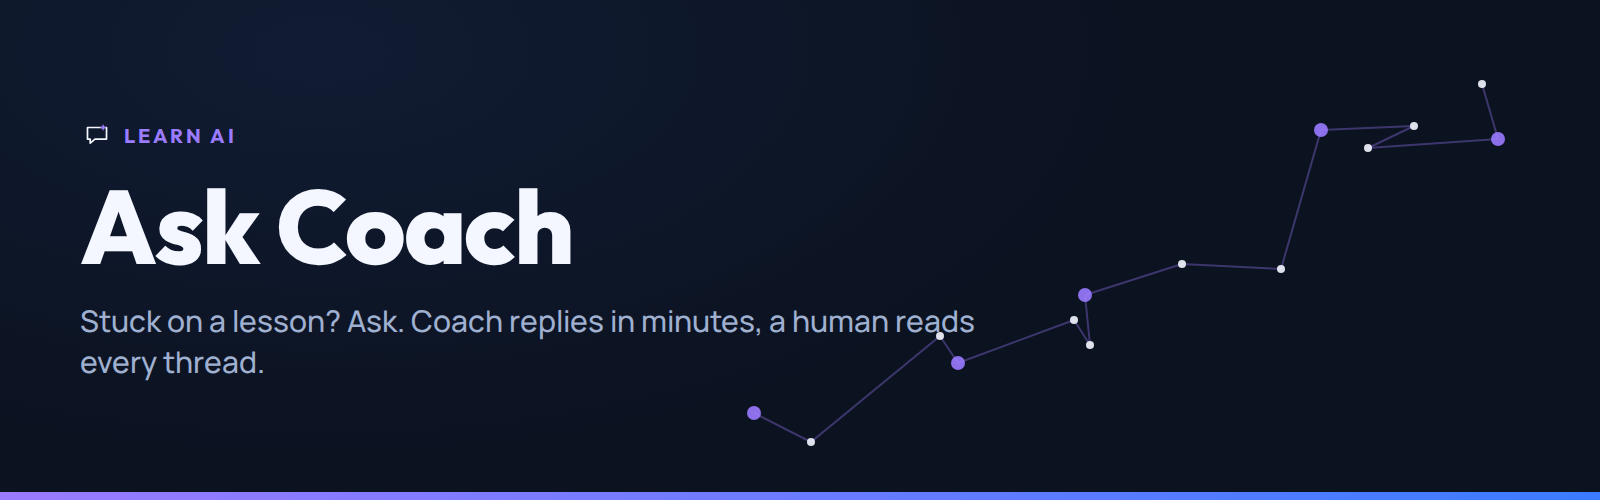
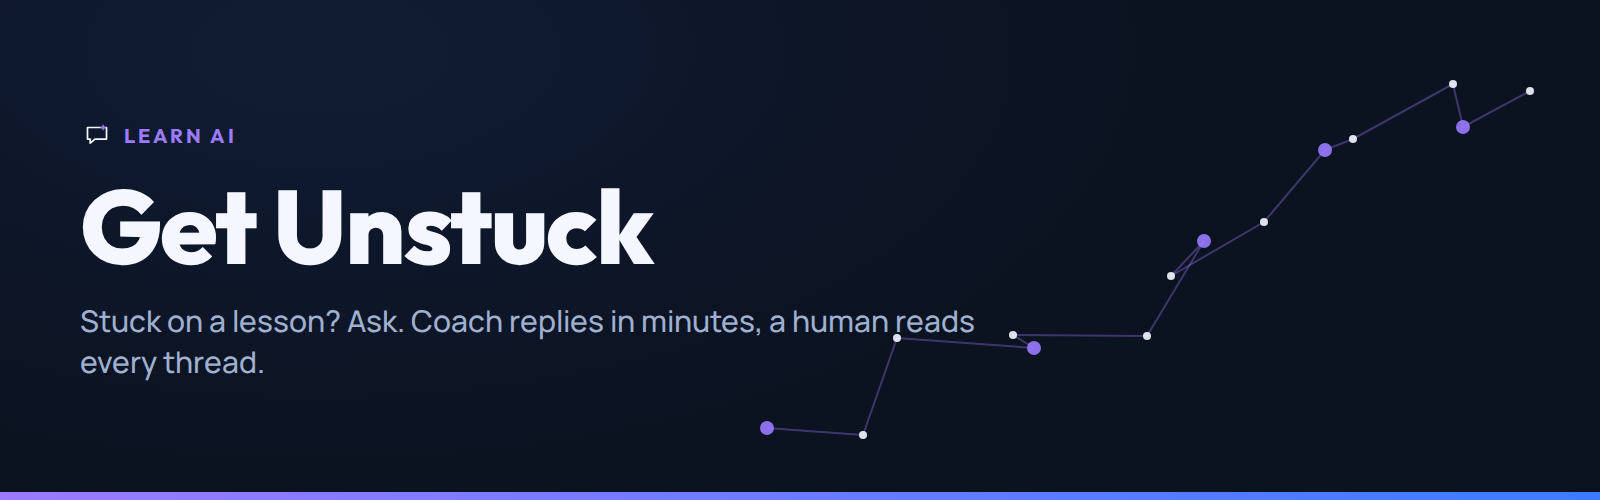
Rename Ask Coach to Get Unstuck; smaller countdown boxes
The help space is now called Get Unstuck everywhere a parent or kid
reads it: the site pages, the Circle structure (the slug stays
ask-coach so the poller and COACH_SPACE_SLUG are unchanged), the pinned
post text, Coach's knowledge base, the space cover and welcome banner,
the docs and the test fixtures. The bot's persona stays Coach. Circle's
API cannot rename a space, so the live rename is a click job (Brief 12).

The countdown boxes on /classes are a size smaller.

Claude-Session: https://claude.ai/code/session_0175zQefr8gbNhXGeym41jJw

diff --git a/site/classes.html b/site/classes.html
@@ -55,11 +55,11 @@
   .bts .clock { position:absolute; left:14px; top:14px; width:20px; height:20px; opacity:.9; }
   .bts .l1 { font-size:14.5px; font-weight:700; letter-spacing:-0.01em; }
   .bts .l1 b { font-weight:800; }
-  .cd { margin-top:10px; display:flex; align-items:flex-start; justify-content:center; gap:6px; }
-  .cd .u { display:flex; flex-direction:column; align-items:center; gap:4px; width:52px; }
-  .cd .n { width:52px; height:46px; border-radius:8px; background:rgba(255,255,255,.2); display:grid; place-items:center; font-size:21px; font-weight:800; line-height:1; font-variant-numeric:tabular-nums; }
-  .cd small { font-size:9.5px; letter-spacing:.06em; text-transform:uppercase; opacity:.92; font-weight:600; white-space:nowrap; }
-  .cd .c { font-size:20px; font-weight:800; opacity:.75; line-height:46px; }
+  .cd { margin-top:9px; display:flex; align-items:flex-start; justify-content:center; gap:5px; }
+  .cd .u { display:flex; flex-direction:column; align-items:center; gap:3px; width:44px; }
+  .cd .n { width:44px; height:38px; border-radius:7px; background:rgba(255,255,255,.2); display:grid; place-items:center; font-size:17px; font-weight:800; line-height:1; font-variant-numeric:tabular-nums; }
+  .cd small { font-size:8.5px; letter-spacing:.05em; text-transform:uppercase; opacity:.92; font-weight:600; white-space:nowrap; }
+  .cd .c { font-size:16px; font-weight:800; opacity:.75; line-height:38px; }
   .bts button { position:absolute; right:8px; top:8px; width:32px; height:32px; border:0; background:transparent; color:#fff; font-size:24px; line-height:1; cursor:pointer; border-radius:50%; opacity:.85; }
   .top { display:flex; align-items:center; justify-content:space-between; padding:12px 16px; border-bottom:1px solid var(--line); background:#fff; }
   .logo { display:inline-flex; align-items:center; gap:9px; font-weight:800; font-size:21px; color:var(--ink); letter-spacing:-0.01em; }
@@ -361,7 +361,7 @@
 
     <ul class="facts">
       <li><svg viewBox="0 0 24 24" fill="none" stroke="#17182B" stroke-width="2" stroke-linecap="round" stroke-linejoin="round" aria-hidden="true"><path d="M4 19V5a2 2 0 0 1 2-2h12a2 2 0 0 1 2 2v14M4 19a2 2 0 0 0 2 2h14M8 7h8M8 11h8"/></svg><span>17 video classes in three tracks: AI basics, how it works, and projects</span></li>
-      <li><svg viewBox="0 0 24 24" fill="none" stroke="#17182B" stroke-width="2" stroke-linecap="round" stroke-linejoin="round" aria-hidden="true"><path d="M21 12a8 8 0 0 1-8 8H8l-5 3 1.5-4.5A8 8 0 1 1 21 12z"/></svg><span>Ask Coach: help in minutes, and a real person reads every thread</span></li>
+      <li><svg viewBox="0 0 24 24" fill="none" stroke="#17182B" stroke-width="2" stroke-linecap="round" stroke-linejoin="round" aria-hidden="true"><path d="M21 12a8 8 0 0 1-8 8H8l-5 3 1.5-4.5A8 8 0 1 1 21 12z"/></svg><span>Get Unstuck: ask anything, get an answer in minutes, and a real person reads every thread</span></li>
       <li><svg viewBox="0 0 24 24" fill="none" stroke="#17182B" stroke-width="2" stroke-linecap="round" stroke-linejoin="round" aria-hidden="true"><path d="M20 7 9 18l-5-5"/></svg><span>A finished project at the end of every project class</span></li>
     </ul>
 
@@ -524,7 +524,7 @@
     <section>
       <div class="factgrid">
         <div><small>Start</small><b>Tonight</b></div>
-        <div><small>Format</small><b>Self-paced video <span>plus Ask Coach</span></b></div>
+        <div><small>Format</small><b>Self-paced video <span>plus help in minutes</span></b></div>
         <div><small>Ages</small><b>11 to 17</b></div>
         <div><small>New classes</small><b>Every week</b></div>
         <div><small>Price</small><b><s>$199</s> $49 a month <span>stays $49 for as long as you're a member</span></b></div>
@@ -579,7 +579,7 @@
     <section class="center" id="faq">
       <h2>Common questions</h2>
       <div class="faq" style="text-align:left">
-        <details open><summary>Is this live, or self-paced?<svg viewBox="0 0 24 24" fill="none" stroke="currentColor" stroke-width="2.5" stroke-linecap="round" stroke-linejoin="round" aria-hidden="true"><path d="m6 9 6 6 6-6"/></svg></summary><div class="a">Self-paced. Every class is on demand, so your kid can start tonight and watch when it suits your family. Help comes from Ask Coach, which answers in minutes, and a real person reads every thread.</div></details>
+        <details open><summary>Is this live, or self-paced?<svg viewBox="0 0 24 24" fill="none" stroke="currentColor" stroke-width="2.5" stroke-linecap="round" stroke-linejoin="round" aria-hidden="true"><path d="m6 9 6 6 6-6"/></svg></summary><div class="a">Self-paced. Every class is on demand, so your kid can start tonight and watch when it suits your family. Help comes from Get Unstuck, where Coach answers in minutes and a real person reads every thread.</div></details>
         <details><summary>What ages is this for?<svg viewBox="0 0 24 24" fill="none" stroke="currentColor" stroke-width="2.5" stroke-linecap="round" stroke-linejoin="round" aria-hidden="true"><path d="m6 9 6 6 6-6"/></svg></summary><div class="a">Built for 11 to 17. Middle schoolers do best with a parent watching the first classes alongside; high schoolers usually run with it on their own.</div></details>
         <details><summary>Does my kid need to know how to code?<svg viewBox="0 0 24 24" fill="none" stroke="currentColor" stroke-width="2.5" stroke-linecap="round" stroke-linejoin="round" aria-hidden="true"><path d="m6 9 6 6 6-6"/></svg></summary><div class="a">No. Every project uses tools that build from a description of what you want. Kids who like code can go deeper, but nothing requires it.</div></details>
         <details><summary>What do they need?<svg viewBox="0 0 24 24" fill="none" stroke="currentColor" stroke-width="2.5" stroke-linecap="round" stroke-linejoin="round" aria-hidden="true"><path d="m6 9 6 6 6-6"/></svg></summary><div class="a">A laptop or Chromebook and an internet connection. Most tools have a free tier. Where a class uses a paid tool, the class says so before anyone signs up for anything.</div></details>
@@ -594,7 +594,7 @@
       <div class="offer">
         <h3>Back in School Access</h3>
         <div class="pr"><s class="was">$199</s><b>$49</b><span>/ month</span></div>
-        <p class="sub">Every class, every project, Ask Coach. About $1.60 a day.</p>
+        <p class="sub">Every class, every project, help in minutes. About $1.60 a day.</p>
         <a class="btn sun" data-checkout href="https://www.joinlearnai.com/checkout/founding-member">Enroll Now</a>
         <p class="fine">Enroll now and your rate stays $49 a month for as long as you're a member. It never goes back up to $199. Cancel anytime from your account.</p>
       </div>

diff --git a/site/index.html b/site/index.html
@@ -202,7 +202,7 @@
     <div class="steps" style="margin-top:32px">
       <div class="step"><h3>Watch a class</h3><p>Twenty to thirty minutes. Pause, rewind, rewatch.</p></div>
       <div class="step"><h3>Build the project</h3><p>Every class ends with something to make, using free tools.</p></div>
-      <div class="step"><h3>Ask when stuck</h3><p>Post in Ask Coach. Answers come in minutes, any day.</p></div>
+      <div class="step"><h3>Ask when stuck</h3><p>Post in Get Unstuck. Answers come in minutes, any day.</p></div>
       <div class="step"><h3>Show it off</h3><p>Share it in Show and Tell and see what other kids made.</p></div>
       <div class="step"><h3>Join the live build</h3><p>A weekly live build-along and Q&amp;A with the team.</p></div>
     </div>
@@ -243,13 +243,13 @@
       <div>
         <span class="founding">Founding Member</span>
         <div class="amount" style="margin-top:14px">$49 <small>/ month</small></div>
-        <p class="lede" style="margin-top:10px;font-size:16px">One student. Every class, every project, Ask Coach, live sessions and the community. Founding rate locked in for as long as you stay a member. Cancel anytime.</p>
+        <p class="lede" style="margin-top:10px;font-size:16px">One student. Every class, every project, Get Unstuck help, live sessions and the community. Founding rate locked in for as long as you stay a member. Cancel anytime.</p>
         <p style="margin-top:22px"><a class="btn" data-checkout href="https://www.joinlearnai.com/checkout/founding-member">Join now</a></p>
       </div>
       <ul>
         <li><svg width="20" height="20" viewBox="0 0 24 24" fill="none" stroke="#3B7BFF" stroke-width="2.5" stroke-linecap="round" stroke-linejoin="round"><path d="M20 6L9 17l-5-5"/></svg><span>17 video classes across three levels</span></li>
         <li><svg width="20" height="20" viewBox="0 0 24 24" fill="none" stroke="#3B7BFF" stroke-width="2.5" stroke-linecap="round" stroke-linejoin="round"><path d="M20 6L9 17l-5-5"/></svg><span>10 project classes: game, app, website, chatbot, agent, video, cartoon, music, art, comic</span></li>
-        <li><svg width="20" height="20" viewBox="0 0 24 24" fill="none" stroke="#3B7BFF" stroke-width="2.5" stroke-linecap="round" stroke-linejoin="round"><path d="M20 6L9 17l-5-5"/></svg><span>Ask Coach: answers in minutes, a human reads every thread</span></li>
+        <li><svg width="20" height="20" viewBox="0 0 24 24" fill="none" stroke="#3B7BFF" stroke-width="2.5" stroke-linecap="round" stroke-linejoin="round"><path d="M20 6L9 17l-5-5"/></svg><span>Get Unstuck: answers in minutes, a human reads every thread</span></li>
         <li><svg width="20" height="20" viewBox="0 0 24 24" fill="none" stroke="#3B7BFF" stroke-width="2.5" stroke-linecap="round" stroke-linejoin="round"><path d="M20 6L9 17l-5-5"/></svg><span>Weekly live build-along and Q&amp;A</span></li>
         <li><svg width="20" height="20" viewBox="0 0 24 24" fill="none" stroke="#3B7BFF" stroke-width="2.5" stroke-linecap="round" stroke-linejoin="round"><path d="M20 6L9 17l-5-5"/></svg><span>Show and Tell, Course Requests, Parent Hub</span></li>
         <li><svg width="20" height="20" viewBox="0 0 24 24" fill="none" stroke="#3B7BFF" stroke-width="2.5" stroke-linecap="round" stroke-linejoin="round"><path d="M20 6L9 17l-5-5"/></svg><span>New classes added by member vote</span></li>
@@ -266,7 +266,7 @@
     <details><summary>What ages is this for?</summary><p>Built for 11 to 17. Younger kids can do it with a parent alongside. Adults get their own courses in the same membership.</p></details>
     <details><summary>Does my kid need to know how to code?</summary><p>No. Every project uses tools that let you build by describing what you want. Kids who like code can go deeper, but nothing requires it.</p></details>
     <details><summary>What do they need?</summary><p>A laptop or Chromebook and an internet connection. Most tools have a free tier. One art class uses Midjourney, which is paid, and the video class may need a paid ChatGPT plan. We say so in the class before anyone signs up for anything.</p></details>
-    <details><summary>Is it live or self-paced?</summary><p>Self-paced classes, plus a weekly live build-along and Q&amp;A. Questions get answered any day in Ask Coach.</p></details>
+    <details><summary>Is it live or self-paced?</summary><p>Self-paced classes, plus a weekly live build-along and Q&amp;A. Questions get answered any day in Get Unstuck.</p></details>
     <details><summary>How much time does it take?</summary><p>About two hours a week is a good pace: one class and its project. Faster or slower is fine.</p></details>
     <details><summary>Who is Coach?</summary><p>Coach is an AI helper that answers questions inside the community, grounded in the class material. It never asks for personal details and it hands anything about billing, accounts or safety to a person on our team. A human reviews every thread.</p></details>
     <details><summary>How do I cancel?</summary><p>From your account settings, in two clicks, any time. You keep access until the end of the billing period. Billing questions go to a person; email us and we will sort it out.</p></details>

diff --git a/site/the-gap.html b/site/the-gap.html
@@ -396,7 +396,7 @@
         <div class="step"><span class="n">1</span><div><span class="when">Tonight</span><h3>Watch the first class together</h3><p>Eight minutes on how ChatGPT actually works. Then where it gets things wrong, and how to use it well. You'll both get it.</p></div></div>
         <div class="step"><span class="n">2</span><div><span class="when">This week</span><h3>Pick a project and build it</h3><p>A custom game, their own cartoon, a video, an AI agent that handles real tasks. Every project class ends with something finished.</p></div></div>
         <div class="step"><span class="n">3</span><div><span class="when">Every week</span><h3>A new class drops</h3><p>Members ask for the class they want next and vote on it, so the program follows what your kid wants to make.</p></div></div>
-        <div class="step"><span class="n">4</span><div><span class="when">Whenever they're stuck</span><h3>Ask Coach</h3><p>An answer in minutes, and a real person on our team reads every thread.</p></div></div>
+        <div class="step"><span class="n">4</span><div><span class="when">Whenever they're stuck</span><h3>Get Unstuck</h3><p>An answer in minutes, and a real person on our team reads every thread.</p></div></div>
     </div>
   </div>
 </section>
@@ -461,7 +461,7 @@
       <div class="row"><div class="lab"><b>Live small-group coding school</b><span>$219 to $299 a month</span></div><div class="bar"><i style="width:22%"></i></div></div>
       <div class="row"><div class="lab"><b>One online class a week, pay per class</b><span>$60 to $120 a month</span></div><div class="bar"><i style="width:9%"></i></div></div>
       <div class="row us"><div class="lab"><b>Learn AI, everything included</b><span>$49 a month</span></div><div class="bar"><i style="width:4.5%"></i></div></div>
-      <span class="src">Prices as listed on the providers' own sites, October 2026. Learn AI includes every class, new classes weekly and Ask Coach.</span>
+      <span class="src">Prices as listed on the providers' own sites, October 2026. Learn AI includes every class, new classes weekly and Get Unstuck help.</span>
     </div>
   </div>
 </section>
@@ -507,7 +507,7 @@
         <li><span class="ck indigo"><svg viewBox="0 0 24 24" fill="none" stroke="#fff" stroke-width="3.5" stroke-linecap="round" stroke-linejoin="round"><path d="M20 6L9 17l-5-5"/></svg></span><span><b>How AI works, from the ground up.</b> College-level material, taught so a 12-year-old gets it.</span><span class="v">$297</span></li>
         <li><span class="ck indigo"><svg viewBox="0 0 24 24" fill="none" stroke="#fff" stroke-width="3.5" stroke-linecap="round" stroke-linejoin="round"><path d="M20 6L9 17l-5-5"/></svg></span><span><b>Project classes.</b> Make a game, a cartoon, a video, an AI agent, an app, a website and more.</span><span class="v">$497</span></li>
         <li><span class="ck indigo"><svg viewBox="0 0 24 24" fill="none" stroke="#fff" stroke-width="3.5" stroke-linecap="round" stroke-linejoin="round"><path d="M20 6L9 17l-5-5"/></svg></span><span><b>New classes every week.</b> Members ask for the next one and vote on it.</span><span class="v">$199</span></li>
-        <li><span class="ck indigo"><svg viewBox="0 0 24 24" fill="none" stroke="#fff" stroke-width="3.5" stroke-linecap="round" stroke-linejoin="round"><path d="M20 6L9 17l-5-5"/></svg></span><span><b>Ask Coach.</b> Help in minutes, any day, with a person reading every thread.</span><span class="v">$240</span></li>
+        <li><span class="ck indigo"><svg viewBox="0 0 24 24" fill="none" stroke="#fff" stroke-width="3.5" stroke-linecap="round" stroke-linejoin="round"><path d="M20 6L9 17l-5-5"/></svg></span><span><b>Get Unstuck.</b> Help in minutes, any day, with a person reading every thread.</span><span class="v">$240</span></li>
         <li><span class="ck indigo"><svg viewBox="0 0 24 24" fill="none" stroke="#fff" stroke-width="3.5" stroke-linecap="round" stroke-linejoin="round"><path d="M20 6L9 17l-5-5"/></svg></span><span><b>A safe, moderated space.</b> No messaging between members. Parent consent at signup.</span><span class="v">$99</span></li>
         <li class="total"><span>Total value</span><span><s>$1,332</s> &nbsp;→&nbsp; $49/month</span></li>
       </ul>

diff --git a/site/ai-for-kids.html b/site/ai-for-kids.html
@@ -159,7 +159,7 @@
   .teacher .cred { color:var(--ink); font-size:13.5px; font-weight:600; margin-top:2px; }
   .teacher .cls { color:var(--muted); font-size:13px; margin-top:6px; }
 
-  /* Ask Coach thread */
+  /* Get Unstuck thread */
   .coach { margin-top:20px; background:var(--surface); border:1px solid var(--line); border-radius:18px; overflow:hidden; }
   .coach .head { display:flex; align-items:center; gap:10px; padding:14px 16px; border-bottom:1px solid var(--line); }
   .coach .head .ic { width:34px; height:34px; border-radius:10px; background:var(--indigo); display:grid; place-items:center; flex:none; }
@@ -417,7 +417,7 @@
     <div class="coach">
       <div class="head">
         <span class="ic"><svg width="18" height="18" viewBox="0 0 24 24" fill="none" stroke="#fff" stroke-width="2.4" stroke-linecap="round" stroke-linejoin="round"><path d="M4 5h16v11H9l-5 4z"/></svg></span>
-        <div><b>Between classes: Ask Coach</b><span>Stuck at 9pm? Post the question. An answer comes in minutes.</span></div>
+        <div><b>Between classes: Get Unstuck</b><span>Stuck at 9pm? Post the question. An answer comes in minutes.</span></div>
       </div>
       <div class="thread" aria-label="Example question and answer">
         <div class="msg"><span class="av">S</span><div class="b"><div class="n"><b>Student, 13</b><span class="t">8:52 PM</span></div>My game character falls through the platforms when I jump. What do I change?</div></div>
@@ -457,7 +457,7 @@
         <li><span class="ck indigo"><svg viewBox="0 0 24 24" fill="none" stroke="#fff" stroke-width="3.5" stroke-linecap="round" stroke-linejoin="round"><path d="M20 6L9 17l-5-5"/></svg></span><span><b>Beginner-friendly AI classes.</b> College-level material, taught so a 12-year-old gets it.</span><span class="v">$297</span></li>
         <li><span class="ck indigo"><svg viewBox="0 0 24 24" fill="none" stroke="#fff" stroke-width="3.5" stroke-linecap="round" stroke-linejoin="round"><path d="M20 6L9 17l-5-5"/></svg></span><span><b>Project classes.</b> Make a game, an app, a website, a chatbot and more.</span><span class="v">$497</span></li>
         <li><span class="ck indigo"><svg viewBox="0 0 24 24" fill="none" stroke="#fff" stroke-width="3.5" stroke-linecap="round" stroke-linejoin="round"><path d="M20 6L9 17l-5-5"/></svg></span><span><b>New classes every week.</b> Chosen by member vote, from real instructors.</span><span class="v">$199</span></li>
-        <li><span class="ck indigo"><svg viewBox="0 0 24 24" fill="none" stroke="#fff" stroke-width="3.5" stroke-linecap="round" stroke-linejoin="round"><path d="M20 6L9 17l-5-5"/></svg></span><span><b>Ask Coach.</b> Help in minutes, any day, with a person reading every thread.</span><span class="v">$240</span></li>
+        <li><span class="ck indigo"><svg viewBox="0 0 24 24" fill="none" stroke="#fff" stroke-width="3.5" stroke-linecap="round" stroke-linejoin="round"><path d="M20 6L9 17l-5-5"/></svg></span><span><b>Get Unstuck.</b> Ask anything, get help in minutes, any day, with a person reading every thread.</span><span class="v">$240</span></li>
         <li><span class="ck indigo"><svg viewBox="0 0 24 24" fill="none" stroke="#fff" stroke-width="3.5" stroke-linecap="round" stroke-linejoin="round"><path d="M20 6L9 17l-5-5"/></svg></span><span><b>A safe, moderated space.</b> No messaging between members. Parent consent at signup.</span><span class="v">$99</span></li>
         <li class="total"><span>Total value</span><span><s>$1,332</s> &nbsp;→&nbsp; $49/month</span></li>
       </ul>

diff --git a/test/coachLoop.test.ts b/test/coachLoop.test.ts
@@ -24,7 +24,7 @@ function cfg(overrides: Partial<CoachLoopConfig> = {}): CoachLoopConfig {
 }
 
 const member = (id: number, name: string, email: string, title: string, html: string, published: string, comments = 0): PostRecord => ({
-  id, name: title, body: { body: html }, user_email: email, user_name: name, space_name: "Ask Coach", published_at: published, comments_count: comments,
+  id, name: title, body: { body: html }, user_email: email, user_name: name, space_name: "Get Unstuck", published_at: published, comments_count: comments,
 });
 const comment = (id: number, email: string, name: string, html: string, created: string, parent: number | null = null): CommentRecord => ({
   id, parent_comment_id: parent, created_at: created, body: { body: html }, user: { email, name },
@@ -37,7 +37,7 @@ function fakeCircle(state: { posts: PostRecord[]; comments: Record<number, Comme
   const fetchImpl = vi.fn(async (url: string, init?: RequestInit) => {
     const u = new URL(url);
     const json = (body: unknown) => new Response(JSON.stringify(body), { status: 200, headers: { "content-type": "application/json" } });
-    if (u.pathname.endsWith("/spaces")) return json({ records: [{ id: 3, slug: "welcome", name: "Welcome" }, { id: 7, slug: "ask-coach", name: "Ask Coach" }], has_next_page: false });
+    if (u.pathname.endsWith("/spaces")) return json({ records: [{ id: 3, slug: "welcome", name: "Welcome" }, { id: 7, slug: "ask-coach", name: "Get Unstuck" }], has_next_page: false });
     if (u.pathname.endsWith("/posts")) {
       expect(u.searchParams.get("space_id")).toBe("7");
       return json({ records: state.posts, has_next_page: false });
@@ -99,7 +99,7 @@ describe("CoachLoop", () => {
     const state = {
       posts: [
         member(101, "Sam Lee", "kid@example.com", "How do I give my chatbot memory?", "<p>It forgets my name every time.</p>", "2026-09-27T10:00:00Z"),
-        member(102, "Learn AI Team", TEAM, "Welcome to Ask Coach", "<p>How to ask.</p>", "2026-09-20T10:00:00Z"),
+        member(102, "Learn AI Team", TEAM, "Welcome to Get Unstuck", "<p>How to ask.</p>", "2026-09-20T10:00:00Z"),
         member(103, "Ava", "kid2@example.com", "Already answered", "<p>Old question.</p>", "2026-09-26T10:00:00Z", 1),
         member(104, "Max", "kid3@example.com", "Ancient thread", "<p>From ages ago.</p>", "2026-06-01T10:00:00Z", 2),
       ],
@@ -112,7 +112,7 @@ describe("CoachLoop", () => {
     expect(await loop.tick()).toEqual({ answered: 1, skipped: 3, failed: 0 });
     expect(posted).toEqual([{ post_id: 101, body: "Store the name in a variable.", parent_comment_id: undefined, skip_notifications: false }]);
     expect(compose).toHaveBeenCalledTimes(1);
-    expect(compose.mock.calls[0][0]).toMatchObject({ title: "How do I give my chatbot memory?", authorName: "Sam Lee", spaceName: "Ask Coach" });
+    expect(compose.mock.calls[0][0]).toMatchObject({ title: "How do I give my chatbot memory?", authorName: "Sam Lee", spaceName: "Get Unstuck" });
     expect(compose.mock.calls[0][0].thread).toBeUndefined();
     expect(calls.comments).toBe(3); // the ancient post was baselined without a fetch
 

diff --git a/site/terms.html b/site/terms.html
@@ -45,7 +45,7 @@
 </ul>
 <h2>3. Membership, automatic renewal and cancellation</h2>
 <ul>
-  <li><strong>What you buy.</strong> The Founding Member plan is $49 per month for one student and gives access to the classes, projects, Ask Coach, live sessions and community for as long as the membership is active.</li>
+  <li><strong>What you buy.</strong> The Founding Member plan is $49 per month for one student and gives access to the classes, projects, Get Unstuck help, live sessions and community for as long as the membership is active.</li>
   <li><strong>Automatic renewal.</strong> The membership is a subscription. It renews automatically every month and your payment method is charged $49 at the start of each monthly period until you cancel. The Founding Member rate stays the same for as long as your membership stays active without interruption.</li>
   <li><strong>How to cancel.</strong> Cancel at any time from your account settings in the community, or by emailing hello@joinlearnai.com. Cancelling stops all future charges. Your access continues until the end of the period you have already paid for.</li>
   <li><strong>Charges already made.</strong> Each monthly charge pays for that month of access and is not refunded when you cancel part-way through, except where the law requires a refund. If you believe you were charged in error, email hello@joinlearnai.com and a person will look into it.</li>

diff --git a/site/privacy.html b/site/privacy.html
@@ -49,7 +49,7 @@
 <h2>3. How we use it</h2>
 <ul>
   <li>To run the membership: sign-in, access to classes, billing, support and account notices.</li>
-  <li>To answer questions: posts in the Ask Coach space are sent to Anthropic, an AI service, to draft a reply from Coach. That provider processes the text to produce the answer and, under our agreement with it, does not use it to train its models. A person on our team reviews the conversations.</li>
+  <li>To answer questions: posts in the Get Unstuck space are sent to Anthropic, an AI service, to draft a reply from Coach. That provider processes the text to produce the answer and, under our agreement with it, does not use it to train its models. A person on our team reviews the conversations.</li>
   <li>To keep the community safe: moderation, enforcing the community rules, responding to reports and protecting members.</li>
   <li>To measure advertising: our website and checkout use the Meta Pixel and Meta's Conversions API so we can tell which ads led to a purchase. For that purpose we share the purchase amount and a hashed (scrambled) version of the purchaser's email with Meta. We do not run ads directed at children and we do not share what children post with advertisers.</li>
   <li>To meet legal obligations, such as tax records, and to establish or defend legal claims.</li>

diff --git a/site/parents.html b/site/parents.html
@@ -52,7 +52,7 @@
 <h2>Billing and cancelling</h2>
 <p>The Founding Member plan is $49 a month for one student, billed monthly, and the rate stays the same for as long as you remain a member. Cancel any time from your account settings, in two clicks, or by emailing us; access continues to the end of the month you have paid for. Billing questions always go to a person: email hello@joinlearnai.com.</p>
 <h2>How to reach a human</h2>
-<p>Email hello@joinlearnai.com, or post in Ask Coach and write that you would like a person to reply. Safety concerns are read the same day.</p>
+<p>Email hello@joinlearnai.com, or post in Get Unstuck and write that you would like a person to reply. Safety concerns are read the same day.</p>
 <p class="note">Consent statement shown at signup: "I am the parent or legal guardian of this student, I have read the community rules and privacy policy, and I consent to their participation in Learn AI."</p>
 <footer><a href="/">Home</a><a href="/parents">For parents</a><a href="/terms">Terms</a><a href="/privacy">Privacy</a><span>hello@joinlearnai.com</span></footer>
 </div>

diff --git a/test/server.test.ts b/test/server.test.ts
@@ -111,7 +111,7 @@ describe("POST /hooks/circle/question", () => {
     const res = await app.request("/hooks/circle/question", {
       method: "POST",
       headers,
-      body: JSON.stringify({ post_id: 42, title: "Memory?", body_html: "<p>How do I make my <b>bot</b> remember my name?</p>", author_name: "Ava K", author_email: "ava@example.com", space_name: "Ask Coach" }),
+      body: JSON.stringify({ post_id: 42, title: "Memory?", body_html: "<p>How do I make my <b>bot</b> remember my name?</p>", author_name: "Ava K", author_email: "ava@example.com", space_name: "Get Unstuck" }),
     });
     expect(res.status).toBe(200);
     const json = await res.json();

diff --git a/src/bot/coachLoop.ts b/src/bot/coachLoop.ts
@@ -5,7 +5,7 @@ import { composeReply, type ReplyOptions, type ThreadMessage } from "./respond.j
 
 /**
  * Coach without Zapier. Every `intervalMs` the loop lists the newest published posts in the
- * Ask Coach space through the Admin API and, for each thread where the last word belongs to a
+ * Get Unstuck space (slug ask-coach) through the Admin API and, for each thread where the last word belongs to a
  * member, posts Coach's reply as a comment. That covers the first question on a new post and
  * every follow-up comment after it, so a thread reads as a conversation.
  *

diff --git a/src/index.ts b/src/index.ts
@@ -15,7 +15,7 @@ if (!cfg.hookSecret) {
 
 let kb = await KnowledgeBase.fromDir(cfg.knowledgeDir);
 
-// Coach polls the Ask Coach space itself whenever a Circle token is present (no Zapier needed).
+// Coach polls the Get Unstuck space (slug ask-coach) itself whenever a Circle token is present (no Zapier needed).
 // Set COACH_POLL=0 to turn the poller off and use the /hooks/circle/question webhook instead.
 //
 // Every poll is one Circle Admin API call, and Circle bills calls above the plan's 5,000 a month

diff --git a/test/knowledge.test.ts b/test/knowledge.test.ts
@@ -1,7 +1,7 @@
 import { describe, expect, it } from "vitest";
 import { chunkMarkdown, KnowledgeBase } from "../src/bot/knowledge.js";
 
-const faq = `# Community FAQ\n\n## Where to ask\nPost in Ask Coach.\n`;
+const faq = `# Community FAQ\n\n## Where to ask\nPost in Get Unstuck.\n`;
 const lesson = `# What AI is and is not
 
 ## Definition
